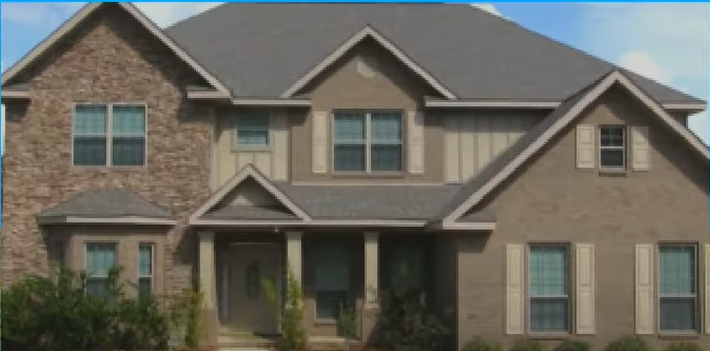
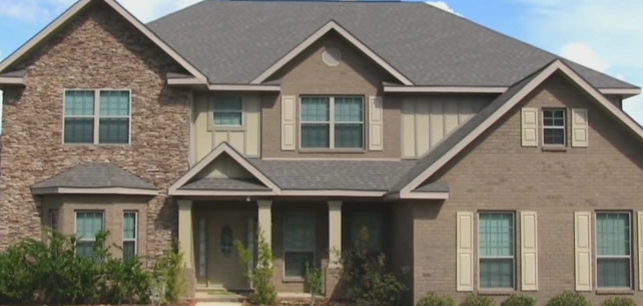
added smlhouse.png and fix missing images

diff --git a/movie/dance/DEBUG/index.html b/movie/dance/DEBUG/index.html
@@ -1,17 +1,3 @@
-<!DOCTYPE html><html lang="en"><head><script src="js/FbhIEFIFvI8A.js" type="text/javascript"></script>
-<script type="text/javascript">window.addEventListener('DOMContentLoaded',function(){var v=archive_analytics.values;v.service='wb';v.server_name='wwwb-app225.us.archive.org';v.server_ms=323;archive_analytics.send_pageview({});});</script>
-<script type="text/javascript" src="js/xSiXIE7HXWbj.js" charset="utf-8"></script>
-<script type="text/javascript" src="js/hU6mFwMoyVBB.js" charset="utf-8"></script>
-<script>window.RufflePlayer=window.RufflePlayer||{};window.RufflePlayer.config={"autoplay":"on","unmuteOverlay":"hidden"};</script>
-<script type="text/javascript" src="js/2ieUU9PY4sCZ.js"></script>
-<script type="text/javascript">
-    __wm.init("https://web.archive.org/web");
-  __wm.wombat("https://smlwiki.com/movie/dance","20240603233436","https://web.archive.org/","web","https://web-static.archive.org/_static/",
-	      "1717457676");
-</script>
-<link rel="stylesheet" type="text/css" href="css/tOTuYiJ7F6JK.css">
-<link rel="stylesheet" type="text/css" href="css/4zqg692ZJqFy.css">
-<!-- End Wayback Rewrite JS Include -->
 <script src="js/mtmSylhYACEi.js"></script>
 <style> canvas { filter: brightness(0.5) contrast(3); animation: fadein 4.23s forwards; animation-delay: 1200ms; } 
 @keyframes fadein { from {filter: brightness(0.5) contrast(3);} to {filter: brightness(1) contrast(1);} }
@@ -48,7 +34,7 @@ function startAnimation() {
       .to(door.position, { duration: 3, x: -0.71, z: 1.27, ease: 'power1.inOut' }, '-=3.3')
       .to(skyboxMaterial.color, { duration: 0, r: 15 / 255, g: 159 / 255, b: 250 / 255 }, '-=3.6');
     const animate = () => { requestAnimationFrame(animate); renderer.render(scene, camera); };
-animate(); zoom.play(); } setTimeout( function(){ window.location = "https://youtube.com/video/UUhBeXLIHG8?t=8&=autoplay=1" }, 99999);
+animate(); zoom.play(); } setTimeout( function(){ window.location = "https://youtube.com/video/UUhBeXLIHG8?t=8&=autoplay=1" }, 999999);
  // const cameraSpeed = 0.046; document.addEventListener('mousemove', onMouseMove);
 function onMouseMove(event) { const mouseX = -(event.clientX / window.innerWidth) * 30 + 15; const mouseY = -(event.clientY / window.innerHeight) * 20 + 10;
   camera.rotation.y = mouseX * cameraSpeed; camera.rotation.x = mouseY * cameraSpeed; }
